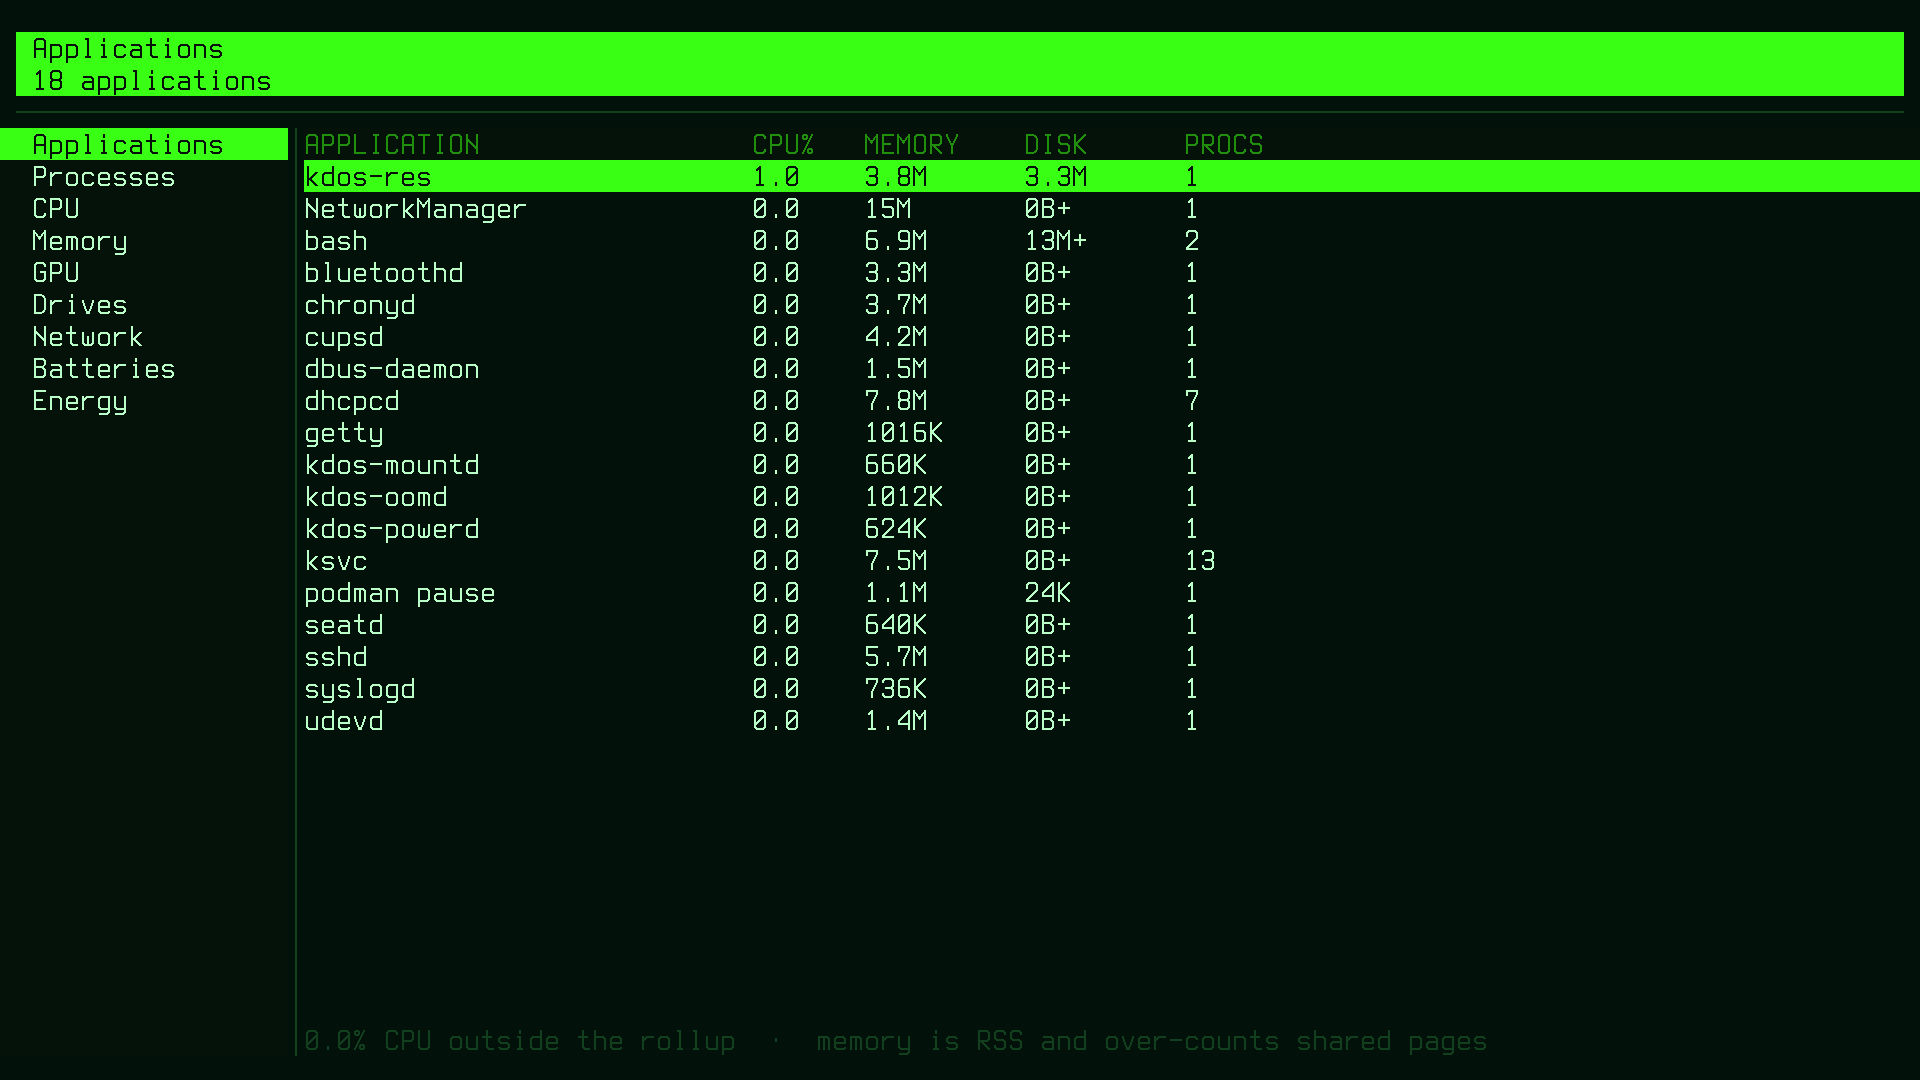
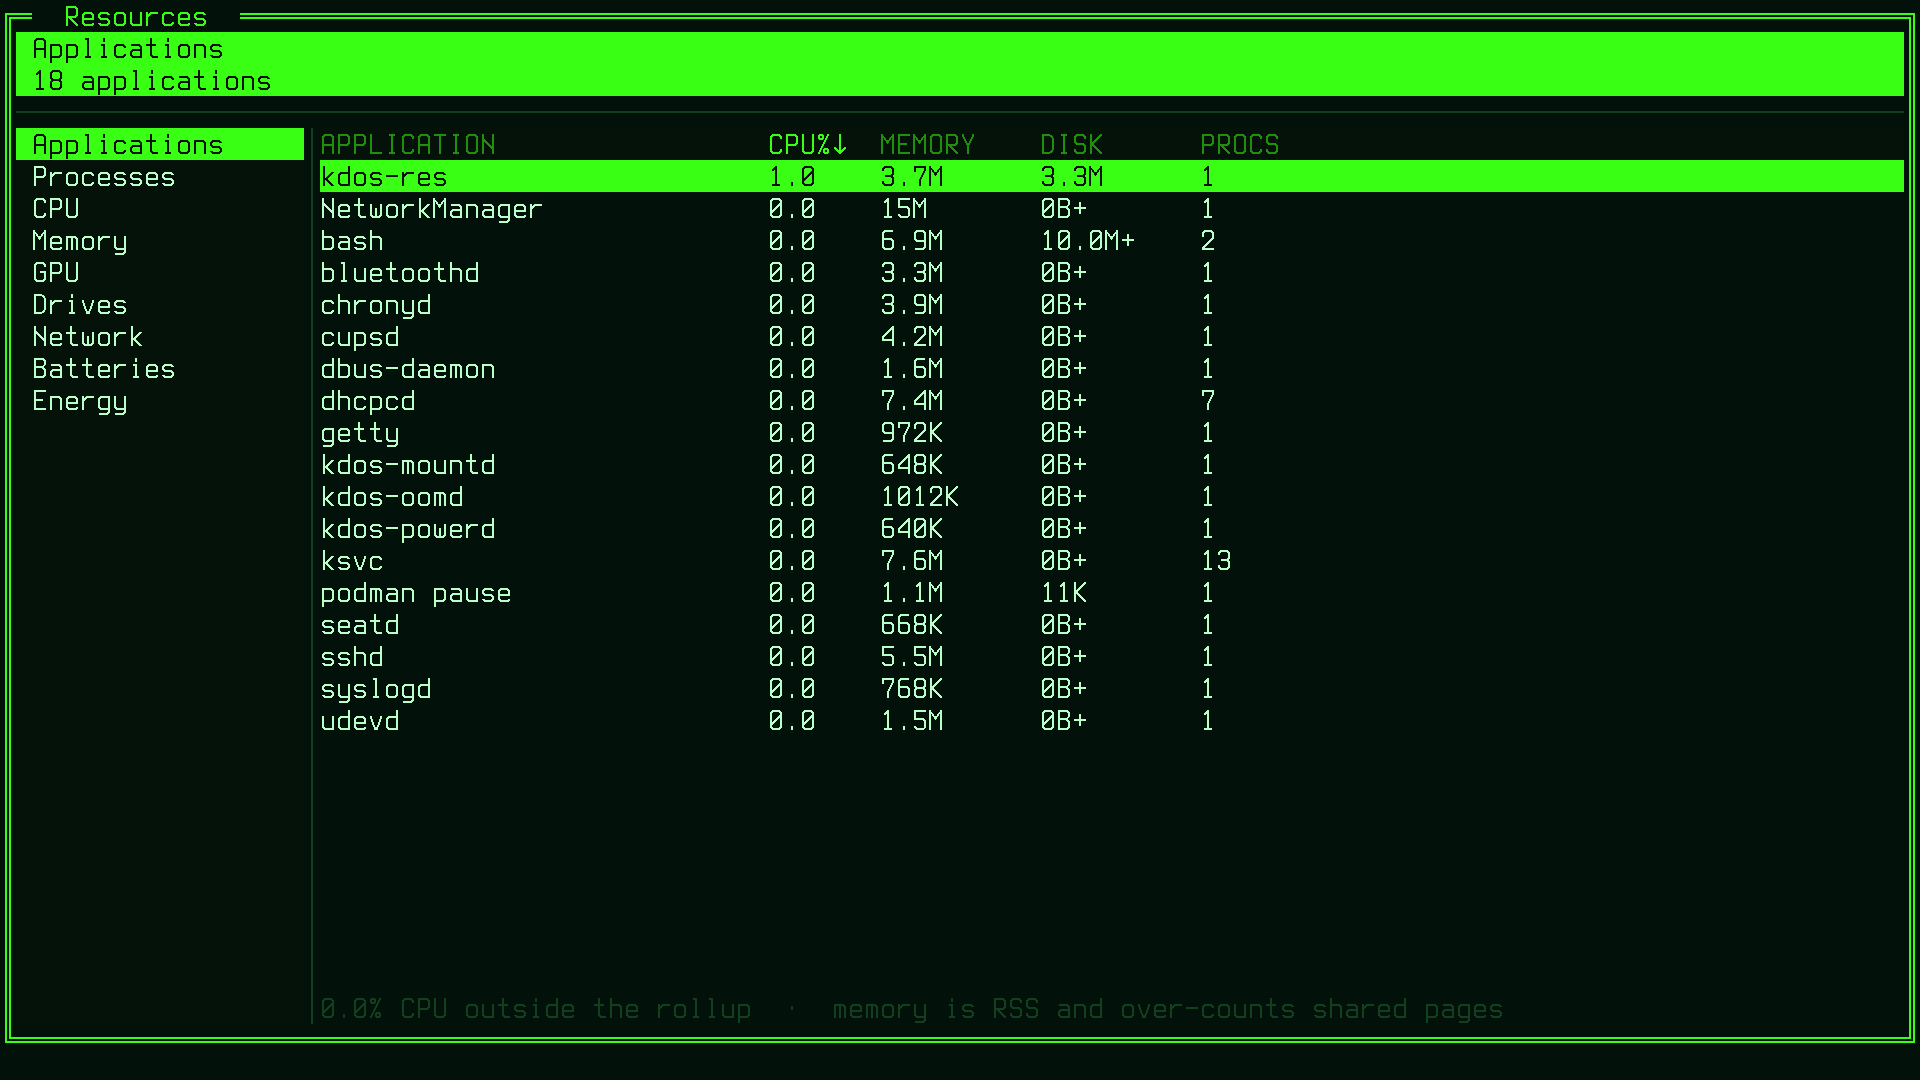
kdos-res fixes

diff --git a/src/desktop/kdos-res/main.c b/src/desktop/kdos-res/main.c
@@ -234,6 +234,15 @@ int main(int argc, char **argv)
 			.app_id = "kdos-res",
 			.font = font,
 			.keyboard = 1,
+			/*
+			 * At or above RES_WIDE, or the window opens in the
+			 * band the sidebar degrades to initials in and the
+			 * footer hint is clipped mid-word. A default, not a
+			 * demand: the compositor's first configure wins on a
+			 * screen too small for it.
+			 */
+			.cols = 104,
+			.rows = 26,
 		};
 		if (kwl_init(&cfg) != 0) {
 			fprintf(stderr, "kdos-res: no compositor — try --tty\n");

diff --git a/CLAUDE.md b/CLAUDE.md
@@ -2737,16 +2737,21 @@ numbers on tty1, in a window and in a `--dump`, because there is only a grid of
 character cells: libktui's backend vtable decides who paints it — the terminal,
 libkwl, or an offscreen buffer — and nothing above that line knows which.
 
-**AND IT WEARS THE SAME BOX AS EVERY OTHER KDOS SURFACE** — `ktui_draw_box`
-round the whole frame with ` Resources ` on its top edge, the header band
-between columns 1 and `w-2` where `kch_header` has always drawn it, the body
-one row short of the bottom. Before that it drew the band on bare background
-with a one-column margin either side and nothing in it, which is what
-`kch_header` LEAVES ROOM for; beside a Start menu and a network panel that are
-both boxed, it read as somebody else's program. See **The KDOS look** for the
-list this is the first line of.
+**AND IT WEARS EXACTLY ONE FRAME.** Undecorated — on tty1, in a `--dump` —
+`ktui_draw_box` goes round the whole surface with ` Resources ` on its top
+edge, the header band between columns 1 and `w-2` where `kch_header` draws it,
+the body one row short of the bottom. Under the compositor the SSD **is** that
+box, so `kwl_decorated()` suppresses the drawn one and the frame keeps only
+its inset: two boxes nested one inside the other is the tell that a program
+drew chrome the compositor had already drawn for it. See **The KDOS look** for
+the list this is the first line of.
 **It is the tree's first `KWL_ROLE_TOPLEVEL` client**; everything else on this
-desktop is a layer surface or a lock surface.
+desktop is a layer surface or a lock surface — and it asks for **104x26
+cells**, at or above the `RES_WIDE` threshold its own sidebar degrades below.
+`make_toplevel`'s fallback is 80x22, which is UNDER it, so a window naming no
+size opens permanently in the narrow band: the sidebar collapsed to one
+initial per page and the footer hint clipped mid-word. It is a default and not
+a demand — the compositor's first configure wins on a screen too small for it.
 
 **THE CHARTS ARE CELLS, AND A FULL-WIDTH CHART CANNOT BE A SPRITE TILE.**
 libktui encodes a sprite cell's sub-cell coordinate in four bits each way, so
